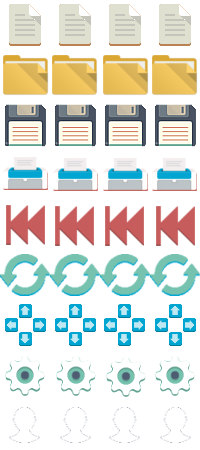
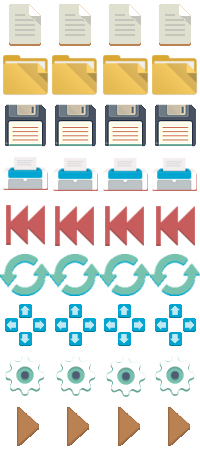
Correct images

diff --git a/public/src/js/app/views/buttons/playbutton.js b/public/src/js/app/views/buttons/playbutton.js
@@ -10,7 +10,7 @@ define('app/views/buttons/playbutton',
 	var PlayButton = function(options){
 		var frame0;
 		options.asset = Assets.BUTTON;
-		frame0 = 36;
+		frame0 = 32;
 		options.frames = [frame0, frame0 + 1, frame0 + 2, frame0 + 3];
 		PhaserComponents.Display.AbstractButton.call(this, options);
 	};
